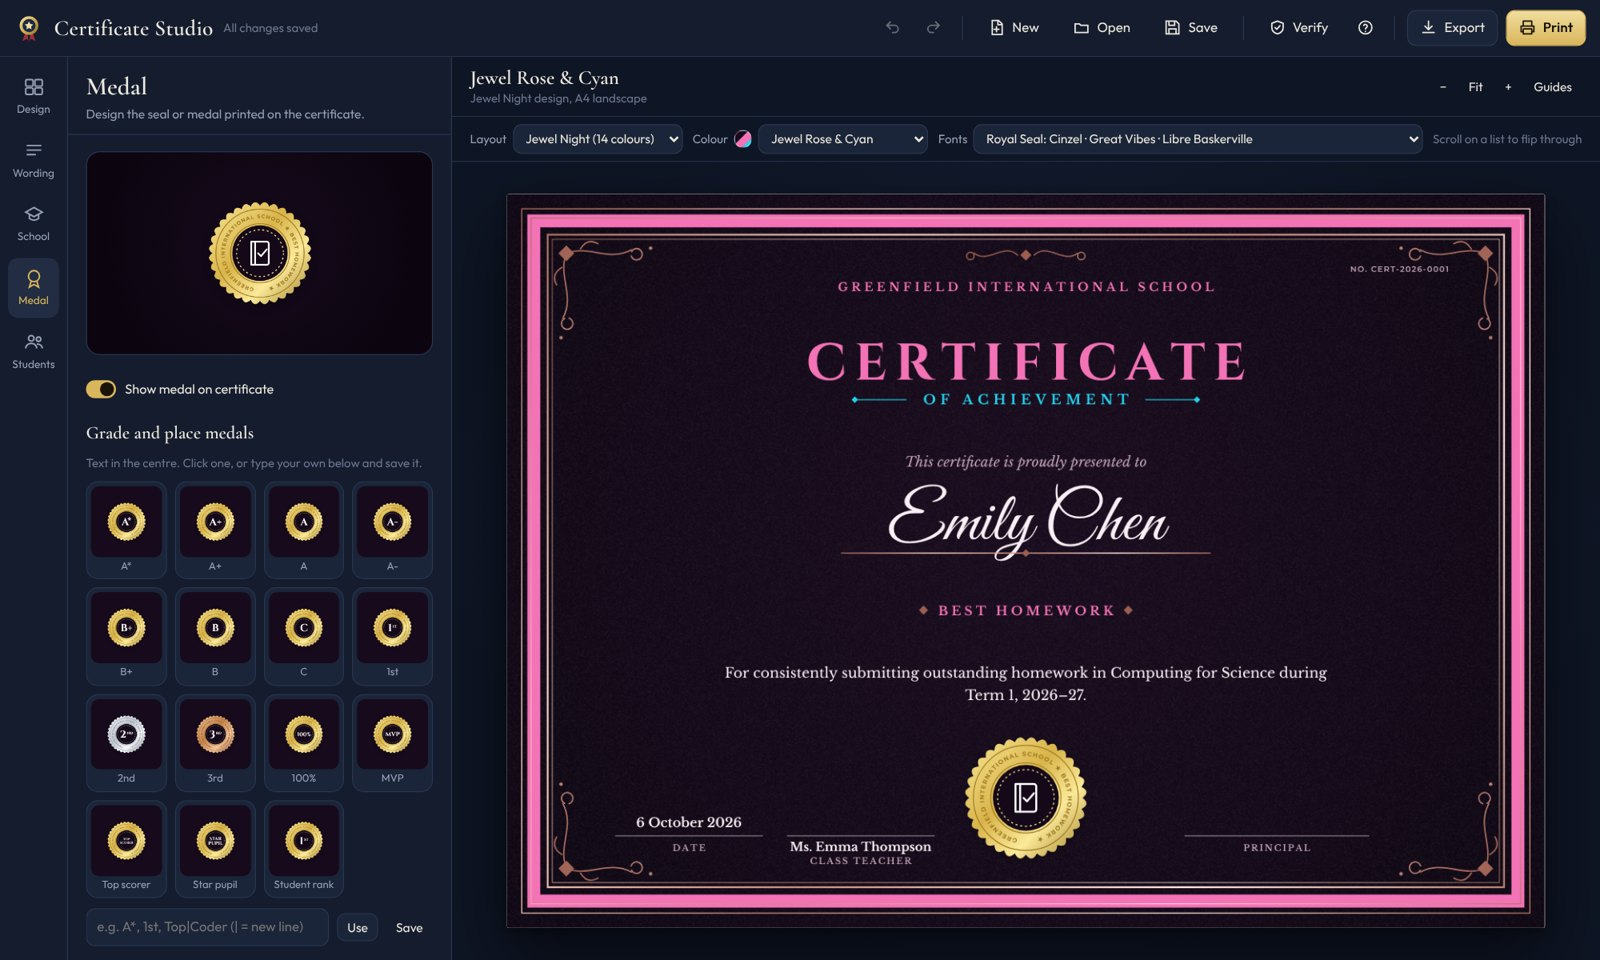
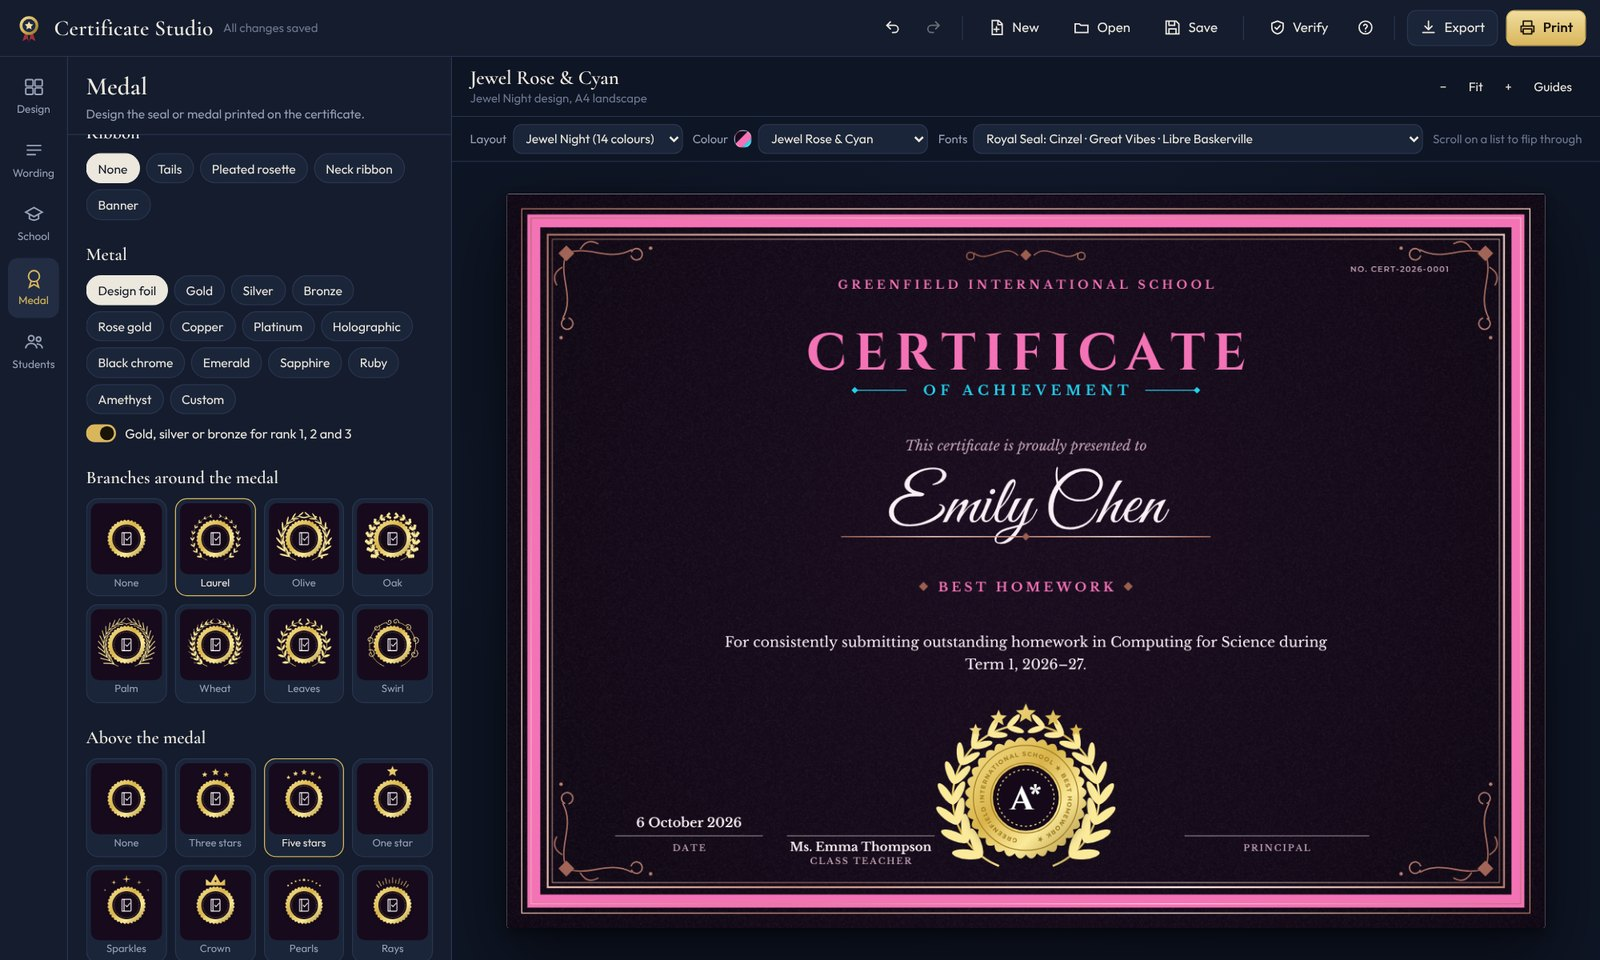
Website: matching screenshots for format bar and medals; counter always visible
Claude-Session: https://claude.ai/code/session_01N6ZibFxkoBTccVMFKBMWps

Changed region(s): [[0.0312, 0.1562, 0.2812, 1.0], [0.4688, 0.3438, 0.8438, 0.9062], [0.5312, 0.2812, 0.75, 0.3125]]

diff --git a/index.html b/index.html
@@ -155,9 +155,9 @@ footer a{color:var(--navy)}
 <section class="tour" id="tour"><div class="wrap">
   <div class="center"><div class="eyebrow">A quick tour</div><h2>See how it works</h2></div>
   <div>
-    <div class="row"><div class="pic"><img src="screenshots/format-bar.jpg" alt="Floating format bar over the student name" width="1600" height="960"></div>
+    <div class="row"><div class="pic"><img src="screenshots/format-bar.jpg" alt="Floating format bar over the student name" width="1000" height="550"></div>
       <div><div class="eyebrow">Edit</div><h3>Click anything to change it</h3><p>Change the text, font, size, colour and style right on the certificate. Double-click for every option.</p><ul><li>Curated font pairings that follow typography rules</li><li>Your own fonts or any font on your computer</li></ul></div></div>
-    <div class="row"><div class="pic"><img src="screenshots/medal-designer.jpg" alt="Medal designer" width="1600" height="960"></div>
+    <div class="row"><div class="pic"><img src="screenshots/medal-designer.jpg" alt="Medal designer with an A* medal, laurel branches and stars" width="1600" height="960"></div>
       <div><div class="eyebrow">Medals</div><h3>A medal for every award</h3><p>Shapes, metals, ribbons, branches, stars and crowns, plus icons by subject: computer science, biology, chemistry, physics, sport and more.</p><ul><li>Grade and place medals: A*, A+, 1st, 2nd, 3rd</li><li>Or type your own text</li></ul></div></div>
     <div class="row"><div class="pic"><img src="screenshots/students.jpg" alt="Student table" width="1600" height="960"></div>
       <div><div class="eyebrow">Students</div><h3>Every student, checked before you print</h3><p>Edit names in a table, tick who to include, give one student a different design, and scroll through every certificate.</p></div></div>
@@ -239,7 +239,7 @@ footer a{color:var(--navy)}
     var rel=list.filter(function(x){return !x.draft&&!x.prerelease;})[0];
     if(rel&&rel.tag_name)document.getElementById('ver').textContent='Version '+rel.tag_name.replace(/^v/,'');
     var n=0;list.forEach(function(x){(x.assets||[]).forEach(function(a){if(/\.(exe|zip)$/i.test(a.name))n+=a.download_count||0;});});
-    if(n>0){document.getElementById('dlCount').textContent=n.toLocaleString()+(n===1?' download':' downloads');document.getElementById('dlWrap').hidden=false;}
+    document.getElementById('dlCount').textContent=n>0?n.toLocaleString()+(n===1?' download':' downloads'):'Just released';document.getElementById('dlWrap').hidden=false;
   }).catch(function(){});
 })();
 </script>
